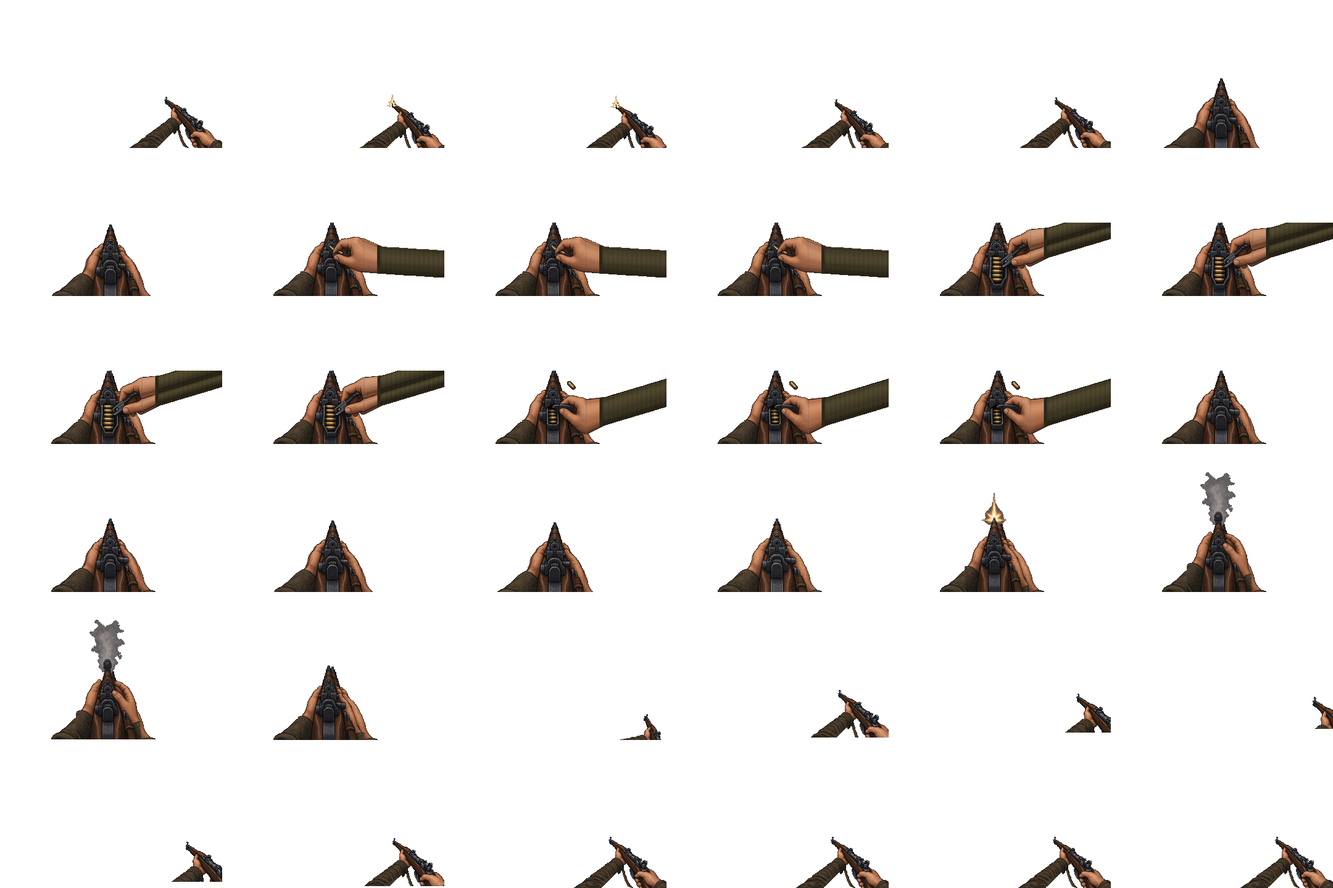
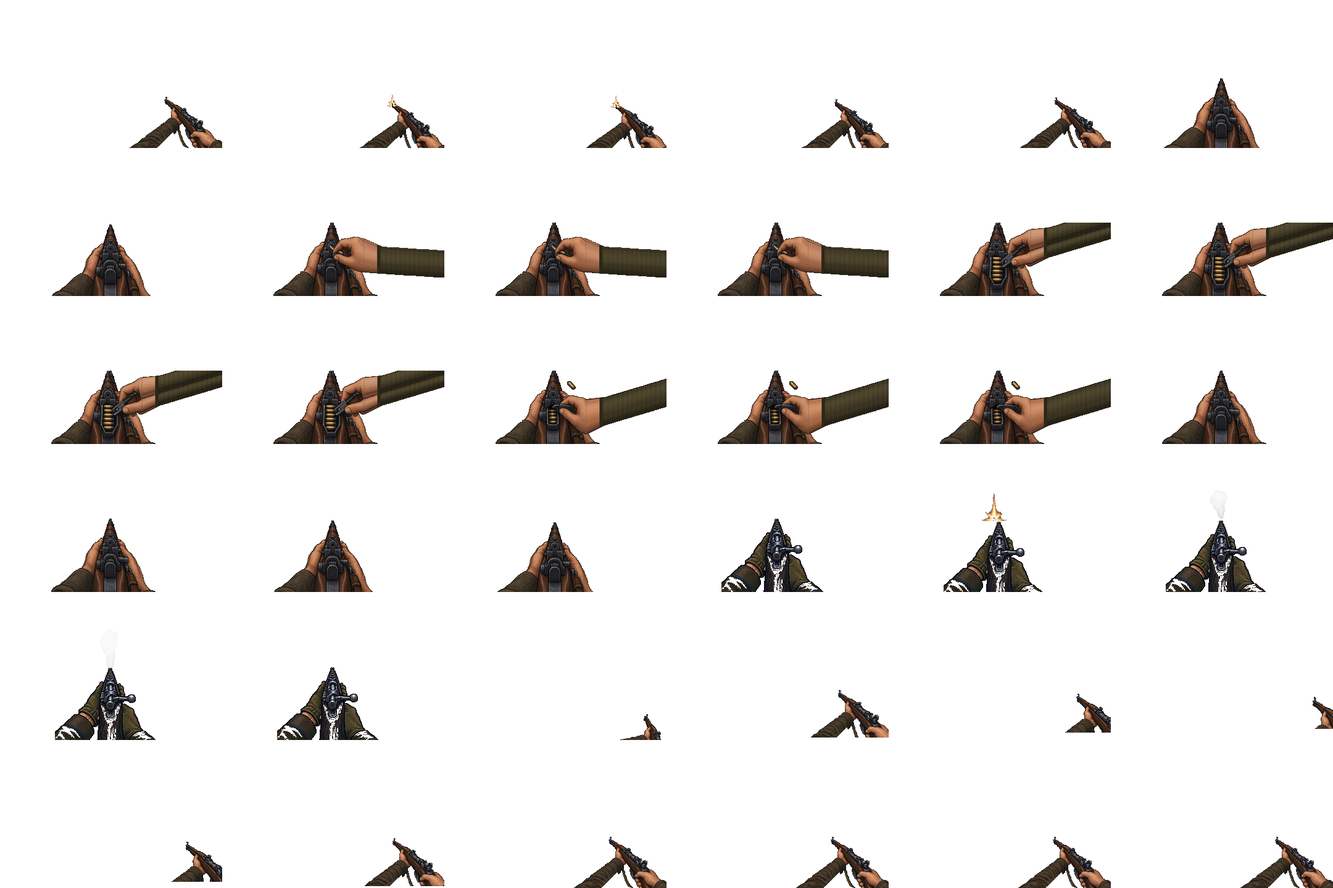
v0.45: Wake stage 3 - WW1 restyle of the island, new bolt aim view
- Fighting trenches carved at every flag (revetments, duckboards, spoil bank, ramped ends) plus the map's own trench pieces
- Solid structures from the map: huts, pillboxes, watch towers, dock store, wireless mast, gun rings, sandbag rings/walls, wrecks
- Shelled bridges (pilings, broken deck) beside the fords; beach obstacles become barbed-wire belts that slow movement
- Airstrip and sand roads laid on the ground; patchy scrub; working AA guns at the flak stands; lanterns and tower lamps
- Bolt-action aim frames rebuilt from the supplied art (gloved hands, handle right, procedural smoke)

Claude-Session: https://claude.ai/code/session_01RvCqKUzwLL4jv3Q2soH2oR

diff --git a/shared.js b/shared.js
@@ -349,6 +349,9 @@ function buildLights() {
     else if ((S.k === 'farm' || S.k === 'barn') && hv < .55) L(S.x + Math.cos(hv * 40) * 1.5, S.z + Math.sin(hv * 40) * 1.5, 'fire', 14, { h: 0 });
     else if (S.k === 'chapel' && hv < .6) L(S.x, S.z, 'lamp', 6, { h: .9 }); });   // candles left burning in the chapel ruins
   for (const b of BURN) L(b.x, b.z, 'burn', 6 + b.k * 4, { h: 0 });
+  gridLights();
+}
+function gridLights() {
   LGRID = new Map(); LIGHTS.forEach((l, i) => { for (let gx = Math.floor((l.x - l.r) / 16); gx <= Math.floor((l.x + l.r) / 16); gx++) for (let gz = Math.floor((l.z - l.r) / 16); gz <= Math.floor((l.z + l.r) / 16); gz++) { const k = gx * 1000 + gz; if (!LGRID.has(k)) LGRID.set(k, []); LGRID.get(k).push(l); } });
 }
 /** How well lit the ground is at (x, z) by the lamps and fires: 0 (dark) .. 1 (in the pool of light). */
@@ -450,7 +453,7 @@ function fortSeg(x0, y0, z0, x1, y1, z1) {   // segments up to one grid cell (6 
       for (const b of a) { const t = segBox(b, x0, y0, z0, x1, y1, z1); if (t >= 0 && (best < 0 || t < best)) best = t; } } }
   return best;
 }
-function wireK(x, z) { let k = wireK0(x, z); for (const w of FWIRE) if (inBox(w, x, z, 0)) { k = Math.min(k, .3); break; } return k; }
+function wireK(x, z) { let k = MP.kind === 'wake' ? 1 : wireK0(x, z); for (const w of WWIRE) if (inBox(w, x, z, 0)) { k = .4; break; } for (const w of FWIRE) if (inBox(w, x, z, 0)) { k = Math.min(k, .3); break; } return k; }
 function los(H, x1, y1, z1, x2, y2, z2) {
   const n = Math.max(10, Math.min(120, Math.ceil(Math.hypot(x2 - x1, z2 - z1) / 1.0)));
   let px = x1, py = y1, pz = z1;
@@ -680,6 +683,84 @@ function loadWake() {
   const g = root.T128_HM, meta = root.T128_WAKE; if (!g || !meta) return null;   // browser: public/maps/wake.js set these before shared.js ran
   const bin = atob(g.b64), n = (meta.N + 1) * (meta.N + 1), h = new Float32Array(n); for (let i = 0; i < n; i++) { let v = bin.charCodeAt(i * 2) | (bin.charCodeAt(i * 2 + 1) << 8); if (v & 32768) v -= 65536; h[i] = v / 100; } return { meta, h };
 }
+// ---- v0.45 Wake restyle: everything the imported map lists, rebuilt in the game's WW1 look. Trenches are carved into the
+// heightmap (a spoil bank thrown up on the outer side), buildings and gun pits are solid STRUCT boxes (walking, bullets, sight
+// and the bots' nav all respect them), beach obstacles become barbed-wire belts (WWIRE, slows like the trench maps' wire),
+// the AA stands become working AA guns, and lanterns go up at huts, bunkers, towers and flags. Same result on server and client.
+const WWIRE = [], WTR = [], TRM = new Map();   // TRM: heightmap vertex -> 1 trench, 2 spoil bank (for the ground colour)
+function carveTrench(pts, D) {   // pts: polyline [[x, z], ...]; D: depth. Flat floor 1.2 m wide, walls out to 1.1 m, a 0.35 m spoil bank behind
+  let L = 0; const seg = []; for (let i = 0; i + 1 < pts.length; i++) { const [ax, az] = pts[i], [bx, bz] = pts[i + 1], l = Math.hypot(bx - ax, bz - az); seg.push([ax, az, bx, bz, l, L]); L += l; }
+  let x0 = 1e9, x1 = -1e9, z0 = 1e9, z1 = -1e9; for (const [x, z] of pts) { x0 = Math.min(x0, x); x1 = Math.max(x1, x); z0 = Math.min(z0, z); z1 = Math.max(z1, z); }
+  const PR = HM.slice(0);
+  for (let j = Math.max(0, Math.floor((z0 - 4 + W) / ST)); j <= Math.min(N, Math.ceil((z1 + 4 + W) / ST)); j++) for (let i = Math.max(0, Math.floor((x0 - 4 + W) / ST)); i <= Math.min(N, Math.ceil((x1 + 4 + W) / ST)); i++) {
+    const x = -W + i * ST, z = -W + j * ST; let bd = 1e9, ba = 0;
+    for (const [ax, az, bx, bz, l, s0] of seg) { const t = Math.max(0, Math.min(1, ((x - ax) * (bx - ax) + (z - az) * (bz - az)) / (l * l || 1))), d = Math.hypot(x - ax - (bx - ax) * t, z - az - (bz - az) * t); if (d < bd) { bd = d; ba = s0 + t * l; } }
+    const k = j * (N + 1) + i, h0 = PR[k]; if (h0 < 1.3) continue;   // never dig down to the sea
+    const ramp = Math.min(1, ba / 3, (L - ba) / 3);   // the ends slope up so men (and bots) can walk out
+    if (bd < 1.1) { const w = bd < .6 ? 1 : 1 - (bd - .6) / .5; HM[k] = Math.min(HM[k], h0 - D * Math.max(0, ramp) * w); TRM.set(k, 1); }
+    else if (bd < 3.2 && ramp > .3) { HM[k] = Math.max(HM[k], h0 + .35 * Math.exp(-((bd - 2) * (bd - 2)) / .5) * ramp); if (bd < 2.8 && !TRM.has(k)) TRM.set(k, 2); }
+  }
+  WTR.push({ pts, D });
+}
+function buildWake(m) {
+  WWIRE.length = 0; WTR.length = 0; TRM.clear();
+  const H = (i, k) => hash(i * 1.37 + 11, k);
+  // trenches: three short arcs round each flag (inside the capture circle), plus the map's own trench pieces
+  m.flags.forEach((f, fi) => { const a0 = H(fi, 1) * 6.283; for (let k = 0; k < 3; k++) { const c = a0 + k * 2.094, r = 9 + H(fi, k + 2) * 1.5, pts = [];
+    for (let s = -5; s <= 5; s++) { const a = c + s * .11; pts.push([f.x + Math.cos(a) * r, f.z + Math.sin(a) * r]); }
+    if (pts.every(([x, z]) => hmSample(x, z) > 1.5)) carveTrench(pts, 1.15); } });
+  m.props.filter(p => p.k === 'trench').forEach(p => { const c = Math.cos(p.r || 0), s = Math.sin(p.r || 0); carveTrench([[p.x - s * 4.5, p.z - c * 4.5], [p.x + s * 4.5, p.z + c * 4.5]], 1.15); });
+  // structures
+  const gmin = (x, z, yaw, hx, hz) => { const c = Math.cos(yaw), s = Math.sin(yaw); let mn = 1e9; for (const [a, b] of [[-hx, -hz], [hx, -hz], [-hx, hz], [hx, hz], [0, 0]]) mn = Math.min(mn, hmSample(x + a * c + b * s, z - a * s + b * c)); return mn; };
+  const put = (k, x, z, yaw, fn, opt) => { const S = { k, x, z, yaw, parts: [] }, c = Math.cos(yaw), s = Math.sin(yaw), g0 = opt && opt.g != null ? opt.g : gmin(x, z, yaw, 3, 3) - .15;
+    const P = (lx, lz, hx, hz, h0, h1, mat, ry, nb, abs) => { const wx = x + lx * c + lz * s, wz = z - lx * s + lz * c, g = abs ? 0 : (opt && opt.flat ? g0 : gmin(wx, wz, yaw + (ry || 0), hx, hz) - .2); S.parts.push(addSBox(wx, wz, yaw + (ry || 0), hx, hz, g + h0, g + h1, mat, nb)); };
+    fn(P, S); STRUCT.push(S); return S; };
+  const ring = (P, R, n, h, mat, gapA, gapW, thick) => { for (let i = 0; i < n; i++) { const a = (i + .5) / n * 6.283; let d = Math.abs(((a - gapA) % 6.283 + 9.425) % 6.283 - 3.1416); if (d < gapW) continue;
+    P(Math.sin(a) * R, Math.cos(a) * R, Math.PI * R / n * 1.05, thick || .35, 0, h, mat, a); } };
+  const land = p => hmSample(p.x, p.z) > .4;
+  m.props.forEach((p, i) => { const y = p.r || 0, h = H(i, 9);
+    if (p.k === 'hut' && land(p)) put('hut', p.x, p.z, y, P => { const w = 5.2, d = 4.2, ruin = h < .3, wh = ruin ? 0 : 2.5;
+      const wall = (lx, lz, len, ry, door, win) => { const n = Math.round(len / 1.3), sl = len / n; for (let q = 0; q < n; q++) { const al = -len / 2 + sl * (q + .5), px = lx + (ry ? 0 : al), pz = lz + (ry ? al : 0), hx = ry ? .12 : sl / 2, hz = ry ? sl / 2 : .12;
+        if (door && q === Math.floor(n / 2)) { P(px, pz, hx, hz, 2.05, 2.5, 'plank', 0, true); continue; }
+        if (ruin) { if (H(i, q + lx * 3 + lz * 7) < .35) continue; P(px, pz, hx, hz, 0, .6 + 1.7 * H(i, q + 40 + lz), 'wood'); continue; }
+        if (win && (q === 1 || q === n - 2)) { P(px, pz, hx, hz, 0, .95, 'plank'); P(px, pz, hx, hz, 1.75, wh, 'plank'); continue; }
+        P(px, pz, hx, hz, 0, wh, 'plank'); } };
+      wall(0, -d / 2, w, 0, true, true); wall(0, d / 2, w, 0, false, true); wall(-w / 2, 0, d, 1, false, false); wall(w / 2, 0, d, 1, false, true);
+      if (!ruin) P(0, 0, w / 2 + .45, d / 2 + .45, wh, wh + .14, 'tin', 0, true); }, { flat: true });
+    else if (p.k === 'bunker' && land(p)) put('bunker', p.x, p.z, y, P => { const w = 5.4, hw = w / 2;   // a concrete pillbox: firing slit at the front (-z), door at the back
+      for (const sx of [-1, 1]) P(sx * (hw - .2), 0, .2, hw, 0, 2.1, 'concrete');
+      P(0, -(hw - .2), hw, .2, 0, 1.3, 'concrete'); P(0, -(hw - .2), hw, .2, 1.7, 2.1, 'concrete');
+      P(-1.6, hw - .2, 1.1, .2, 0, 2.1, 'concrete'); P(1.6, hw - .2, 1.1, .2, 0, 2.1, 'concrete'); P(0, hw - .2, .5, .2, 1.95, 2.1, 'concrete', 0, true);
+      P(0, 0, hw + .2, hw + .2, 2.1, 2.45, 'concrete', 0, true); }, { flat: true });
+    else if (p.k === 'tower' && land(p)) put('tower', p.x, p.z, y, P => { for (const sx of [-1, 1]) for (const sz of [-1, 1]) P(sx * 1.4, sz * 1.4, .12, .12, 0, 7.4, 'post');
+      P(0, 0, 1.7, 1.7, 5.5, 5.7, 'plank', 0, true); for (const sz of [-1, 1]) P(0, sz * 1.6, 1.7, .06, 5.7, 6.6, 'plank', 0, true); P(0, 0, 1.9, 1.9, 7.4, 7.55, 'tin', 0, true); }, { flat: true });
+    else if (p.k === 'gun' && land(p)) put('cring', p.x, p.z, y, P => ring(P, 4.2, 12, 1, 'concrete', 0, .6), { flat: true });   // the gun (an emplacement in EMPL) sits in a concrete ring, open at the back
+    else if (p.k === 'bagring' && land(p)) put('bagring', p.x, p.z, y, P => ring(P, 2.4, 9, 1, 'bag', 0, .5, .4), { flat: true });
+    else if (p.k === 'bags' && land(p)) put('bags', p.x, p.z, y, P => P(0, 0, 1.8, .4, 0, 1, 'bag'));
+    else if (p.k === 'tank' && land(p)) put('tank', p.x, p.z, y, P => { P(0, 0, 1.75, 3.9, 0, 2.1, 'metal'); P(0, -.3, 1.1, 1.3, 2.1, 2.7, 'metal', h - .5); });
+    else if ((p.k === 'plane' || p.k === 'planewreck') && land(p)) put('plane', p.x, p.z, y, P => { P(0, 0, .55, 3, 0, 1.1, 'wood'); P(0, -1, 4, .7, 0, .35, 'wood', 0, true); });
+    else if (p.k === 'wreck' && land(p)) put('lorry', p.x, p.z, y, P => { P(0, -1.9, 1.05, .85, 0, 2.3, 'metal'); P(0, 1, 1.05, 1.9, 0, 1.3, 'wood'); });
+    else if (p.k === 'radar' && land(p)) put('mast', p.x, p.z, y, P => { P(0, 0, .18, .18, 0, 16, 'post'); P(3.5, 0, 1.6, 1.3, 0, 2.3, 'plank'); P(3.5, 0, 1.9, 1.6, 2.3, 2.42, 'tin', 0, true); });
+    else if (p.k === 'pier' && land(p)) put('shed', p.x, p.z, y, P => { const w = 9, d = 6; for (const sz of [-1, 1]) for (let q = -3; q <= 3; q++) if (!(sz < 0 && Math.abs(q) < 1)) P(q * 1.29, sz * d / 2, .645, .12, 0, 3, 'plank');
+      for (const sx of [-1, 1]) P(sx * w / 2, 0, .12, d / 2, 0, 3, 'plank'); P(0, -d / 2, .645, .12, 2.3, 3, 'plank', 0, true); P(0, 0, w / 2 + .5, d / 2 + .5, 3, 3.15, 'tin', 0, true); }, { flat: true });   // the dock store
+    else if (p.k === 'bridge') { let by = y, bs = -1e9; for (let q = 0; q < 36; q++) { const a = q / 36 * Math.PI, c = Math.cos(a), sn = Math.sin(a); const v = Math.min(hmSample(p.x + sn * 30, p.z + c * 30), hmSample(p.x - sn * 30, p.z - c * 30)); if (v > bs) { bs = v; by = a; } }   // (the file's angle doesn't match the channel: span the shortest way between the two shores)
+      const hd = Math.min(hmSample(p.x + Math.sin(by) * 17, p.z + Math.cos(by) * 17), hmSample(p.x - Math.sin(by) * 17, p.z - Math.cos(by) * 17)) - .15;
+      put('bridge', p.x, p.z, by, P => { const L = 34; for (let q = -L / 2; q <= L / 2; q += 3.2) { if (H(i, q) < .2) continue; for (const sx of [-1, 1]) P(sx * 1.6, q, .13, .13, -3, H(i, q + 9) < .5 ? hd : hd * .35, 'post', 0, false, true);
+        if (Math.abs(q) > L / 2 - 7 || H(i, q + 20) < .25) P(0, q, 1.8, 1.6, hd, hd + .18, 'plank', (H(i, q + 3) - .5) * .4, true, true); } }); }   // shelled: the deck is gone in the middle; men use the ford beside it
+    if ((p.k === 'obstacle' || p.k === 'wire') && land(p)) { const yaw = p.k === 'wire' ? y : H(i, 3) * 6.283, len = p.k === 'wire' ? 9 : 4.5;
+      WWIRE.push({ cx: p.x, cz: p.z, c: Math.cos(yaw), s: Math.sin(yaw), hx: len / 2, hz: .9, yaw }); }
+  });
+  // AA guns (working: they shoot at enemy planes) where the map has its flak stands
+  AA.length = 0; m.props.filter(p => p.k === 'aa' && land(p)).forEach(p => AA.push({ team: p.team == null ? 1 : p.team, x: p.x, z: p.z }));
+  // lanterns: hut doors, bunker backs, tower tops, every flag
+  LIGHTS.length = 0; const Lt = (x, z, k, r, o) => LIGHTS.push(Object.assign({ x: +x.toFixed(2), z: +z.toFixed(2), k, r }, o || {}));
+  STRUCT.forEach((S, i) => { const c = Math.cos(S.yaw), s = Math.sin(S.yaw), at = (lx, lz) => [S.x + lx * c + lz * s, S.z - lx * s + lz * c];
+    if (S.k === 'hut' && H(i, 21) < .5) { const [x, z] = at(.9, -2.5); Lt(x, z, 'lantern', 8, { h: 2.2, hang: 1 }); }
+    else if (S.k === 'bunker') { const [x, z] = at(0, 3.2); Lt(x, z, 'lantern', 7, { h: 1.9, hang: 1 }); }
+    else if (S.k === 'tower') Lt(S.x, S.z, 'lamp', 12, { h: 6 }); });
+  for (const f of m.flags) Lt(f.x + .3, f.z, 'lantern', 12, { h: 2.6, hang: 1 });
+  gridLights();
+}
 function applyWake() {
   const d = loadWake(); if (!d) return false; const m = d.meta;
   setWorld(m.S, m.N); HM = d.h; MP.kind = 'wake'; MP.meta = m; MP.seed = WAKE_SEED; Object.assign(MP, { ph1: 0, ph2: 0, a1: 1, a2: 1, gx: 0, gz: 0, hs: 0 });
@@ -693,6 +774,7 @@ function applyWake() {
   fill(DEPOTS, []);
   ROOMS.length = 0; SB.length = 0; SBG.clear(); SGRID.clear(); SBOX.length = 0; PHONES.length = 0; TUNNELS.length = 0; AA.length = 0; STRUCT.length = 0; LIGHTS.length = 0; LGRID = new Map(); BAYS.clear();
   AIRF[0] = { x: -300, z: -300, yaw: 0 }; AIRF[1] = { x: 262, z: 258, yaw: -Math.PI / 2 };   // v0.43: the garrison's strip; the landing force has no airfield yet
+  buildWake(m);
   FLOOR = null; PRISTINE = null; return true;
 }
 /** Build the map for `seed` (0 = classic). Returns the seed actually used (a failing layout moves on to the next seed). */
@@ -789,7 +871,7 @@ function fixLoadout(xp, l) {
   return { cls, w, u };
 }
 
-const API = { setWorld, WAKE_SEED, isSea, SEA_WADE, hmSample: (x, z) => HM ? hmSample(x, z) : 0, crawl, CRAWL, RG, rgPath, chgMax, SLIDE, LIGHTS, BURN, litAt, LV_MAX, lvXp, levelOf, PHONES, phoneDist, TUNNELS, AA, AIRF, PL, flyStep, bombImpact, STRUCT, STRUCT_R, structOK, inBox, wetCell, wetAt, WET_SPD, FL, CT, GAPS, CZ0, CZ1, HOME_Z, NML, OBX, OBJ, MINES, trenchSlope, collapsed, NEST, HQS, LINES, SQUADS, ROOMS, TP, CP, FS_TOP, TR_FLOOR, trenchC, sgn, hash, tri, wireK, gen, base, makeTerrain, hAt, groundAt, roomAt, inRoof, inRoom, dig, los, step, WPN, CHG_MAX, GRAV, DEPOTS, DEP_R, VIS_R, CLS, UT, RK, REQ, rankOf, fixLoadout, climbTarget, climbAt, SB, sbHit, SB_H, FORT, fortParts, fortWorld, addFort, delFort, clearForts, fortHit, fortSeg, SBOX, FORTS, SL0, SL1, EMPL, ELITE, spOf, VEH, SHELL_G, mortarV, WXS, WX, smoothG, own, guarded, isFloor: k => !!(FLOOR && FLOOR[k]), FLOOR_GIVE, DIG_MAX, RIM_MAX, DIG_MAX, RIM_MAX, BAYS, bayOK, collapseBay, resetBays, applyEv, setMap, mapCheck, newSeed, MP, terrainFor, adoptTerrain, DEPOTS_NAMES: DEPOT_NAMES };
+const API = { WWIRE, WTR, TRM, carveTrench, setWorld, WAKE_SEED, isSea, SEA_WADE, hmSample: (x, z) => HM ? hmSample(x, z) : 0, crawl, CRAWL, RG, rgPath, chgMax, SLIDE, LIGHTS, BURN, litAt, LV_MAX, lvXp, levelOf, PHONES, phoneDist, TUNNELS, AA, AIRF, PL, flyStep, bombImpact, STRUCT, STRUCT_R, structOK, inBox, wetCell, wetAt, WET_SPD, FL, CT, GAPS, CZ0, CZ1, HOME_Z, NML, OBX, OBJ, MINES, trenchSlope, collapsed, NEST, HQS, LINES, SQUADS, ROOMS, TP, CP, FS_TOP, TR_FLOOR, trenchC, sgn, hash, tri, wireK, gen, base, makeTerrain, hAt, groundAt, roomAt, inRoof, inRoom, dig, los, step, WPN, CHG_MAX, GRAV, DEPOTS, DEP_R, VIS_R, CLS, UT, RK, REQ, rankOf, fixLoadout, climbTarget, climbAt, SB, sbHit, SB_H, FORT, fortParts, fortWorld, addFort, delFort, clearForts, fortHit, fortSeg, SBOX, FORTS, SL0, SL1, EMPL, ELITE, spOf, VEH, SHELL_G, mortarV, WXS, WX, smoothG, own, guarded, isFloor: k => !!(FLOOR && FLOOR[k]), FLOOR_GIVE, DIG_MAX, RIM_MAX, DIG_MAX, RIM_MAX, BAYS, bayOK, collapseBay, resetBays, applyEv, setMap, mapCheck, newSeed, MP, terrainFor, adoptTerrain, DEPOTS_NAMES: DEPOT_NAMES };
 for (const [k, g] of [['S', () => S], ['N', () => N], ['ST', () => ST], ['W', () => W], ['NV', () => NV]]) Object.defineProperty(API, k, { get: g, enumerable: true });   // world size can change with the map
 root.T128 = API;
 if (typeof module !== 'undefined' && module.exports) module.exports = API;

diff --git a/public/index.html b/public/index.html
@@ -218,7 +218,7 @@ let dirty=true,mmDirty=true;const LODS=[],BAYI=new Map(),bayReg=(key,m,i)=>{let 
 const nrm=new Float32Array(NV*3);tg.setAttribute('normal',new THREE.BufferAttribute(nrm,3));let dR=null;
 let wetOn=false;
 function terrRows(j0,j1){const H=terr.H,D=terr.D,R=N+1,k0=j0*R,k1=j1*R+N;
- for(let k=k0;k<=k1;k++){pos[k*3+1]=H[k];const m=D[k];if(WAKE){const h=H[k];if(h<0){const d=Math.min(1,-h/5);col[k*3]=(.30-.18*d)*m;col[k*3+1]=(.30-.12*d)*m;col[k*3+2]=(.22-.04*d)*m}else{const s=Math.min(1,h/2.2),v=Math.min(1,Math.max(0,(h-2.2)/6));col[k*3]=(.56-.22*s+.02*v)*m;col[k*3+1]=(.50-.16*s+.03*v)*m;col[k*3+2]=(.34-.18*s-.04*v)*m}}else{const t=Math.min(1,Math.max(0,(H[k]+2.5)/5));col[k*3]=(.26+.18*t)*m;col[k*3+1]=(.22+.17*t)*m;col[k*3+2]=(.13+.08*t)*m}   /* v0.43 island: wet sand under the water, pale coral sand on the beach, scrub inland */
+ for(let k=k0;k<=k1;k++){pos[k*3+1]=H[k];const m=D[k];if(WAKE){const h=H[k];if(h<0){const d=Math.min(1,-h/5);col[k*3]=(.30-.18*d)*m;col[k*3+1]=(.30-.12*d)*m;col[k*3+2]=(.22-.04*d)*m}else{const tr=T.TRM.get(k);if(tr===1){col[k*3]=.30*m;col[k*3+1]=.24*m;col[k*3+2]=.16*m}else if(tr===2){col[k*3]=.44*m;col[k*3+1]=.37*m;col[k*3+2]=.25*m}else{const s=Math.min(1,h/2.2),v=Math.min(1,Math.max(0,(h-2.2)/6)),i=k%(N+1),j=(k/(N+1))|0,pn=T.hash(i>>3,j>>3)*.6+T.hash(i>>2,(j>>2)+77)*.4,sc=s*(pn>.55?1:.55+pn*.6);col[k*3]=(.56-.22*sc+.02*v)*m;col[k*3+1]=(.50-.16*sc+.03*v)*m;col[k*3+2]=(.34-.18*sc-.04*v)*m}}}else{const t=Math.min(1,Math.max(0,(H[k]+2.5)/5));col[k*3]=(.26+.18*t)*m;col[k*3+1]=(.22+.17*t)*m;col[k*3+2]=(.13+.08*t)*m}   /* v0.43 island: wet sand under the water, pale coral sand on the beach, scrub inland */
   if(wetOn){const i=k%R,wc=T.wetCell(k,H,-W+i*ST,-W+((k/R)|0)*ST);if(wc>=2){col[k*3]=.10*m+.02;col[k*3+1]=.12*m+.02;col[k*3+2]=.13*m+.03}else if(wc===1){col[k*3]*=.68;col[k*3+1]*=.66;col[k*3+2]*=.62}}   /* v0.31: standing water and mud in the rain */
   const i=k%R,j=(k/R)|0,hx=H[k+(i<N?1:0)]-H[k-(i>0?1:0)],hz=H[k+(j<N?R:0)]-H[k-(j>0?R:0)],sx=(i>0&&i<N?2:1)*ST,sz=(j>0&&j<N?2:1)*ST,nx=-hx/sx,nz=-hz/sz,l=1/Math.hypot(nx,1,nz);nrm[k*3]=nx*l;nrm[k*3+1]=l;nrm[k*3+2]=nz*l}
  for(const r of T.ROOMS){const rj0=Math.max(j0,Math.floor((r.z0+W)/ST)),rj1=Math.min(j1,Math.ceil((r.z1+W)/ST));if(rj0>rj1)continue;const i0=Math.max(0,Math.floor((r.x0+W)/ST)),i1=Math.min(N,Math.ceil((r.x1+W)/ST));for(let j=rj0;j<=rj1;j++)for(let i=i0;i<=i1;i++){const k=j*R+i;if(H[k]<r.rb-.3){col[k*3]*=.5;col[k*3+1]*=.5;col[k*3+2]*=.5}}}
@@ -244,7 +244,11 @@ const STRN=[];function structNight(n){for(const q of STRN){if(q.G){q.G.attribute
   /* charred planks: vertical boards, black char where the fire took them */
   woodT=tx(32,32,(i,j)=>{const bd=i>>2,gap=(i&3)===3,n=(hz(i,j)-.5)*16,ch=hz(bd,j>>3)<.18;if(gap)return[34,28,24];return ch?[60+n,50+n,42+n]:[146+n+hz(bd,1)*24,118+n,86+n]}),
   brM=BM(0xffffff,brickT),stM=BM(0xffffff,stoneT),rustM=BM(0x7a5a44),darkM=BM(0x3a342c),charM=BM(0xffffff,woodT),hayM=BM(0xb39a58),
-  M={brick:brM,stone:stM,wood:charM,metal:rustM};
+  /* v0.45 island materials: fresh planks, corrugated iron, shuttered concrete, sandbags, weathered posts */
+  plankT=tx(32,32,(i,j)=>{const bd=j>>2,gap=(j&3)===3,n=(hz(i,j)-.5)*14,v=hz(bd,(i+bd*7)>>4);if(gap)return[70,58,44];return[150+n+v*28,124+n+v*18,88+n+v*8]}),
+  tinT=tx(32,32,(i,j)=>{const r=Math.sin(i*1.57)*16,n=(hz(i,j)-.5)*12,rust=hz(i>>3,j>>2)<.22;return rust?[120+n+r*.5,72+n,44+n]:[118+r+n,120+r+n,116+r+n]}),
+  concT=tx(32,32,(i,j)=>{const n=(hz(i,j)-.5)*20,form=(j&7)===7||((i+(j>>3)*13)&15)===15;return form?[118+n,116+n,108+n]:[164+n,160+n,148+n]}),
+  M={brick:brM,stone:stM,wood:charM,metal:rustM,plank:BM(0xffffff,plankT),tin:BM(0xffffff,tinT),concrete:BM(0xffffff,concT),bag:BM(0xffffff,TXP('tx_burlap',true)),post:BM(0x8a6a48)};
  const MG=new Map(),addG=(g,m,x,y,z,rx,ry,rz)=>{const o=new THREE.Object3D();o.position.set(x,y,z);o.rotation.order='YXZ';o.rotation.set(rx||0,ry||0,rz||0);o.updateMatrix();let q=g.index?g.toNonIndexed():g;q.applyMatrix4(o.matrix);if(!MG.has(m))MG.set(m,[]);MG.get(m).push(q)},
   boxT=(w,h,d,m,x,y,z,ry)=>{const g=new THREE.BoxGeometry(w,h,d),uv=g.attributes.uv;if(uv)for(let i=0;i<uv.count;i++)uv.setXY(i,uv.getX(i)*Math.max(w,d)/2,uv.getY(i)*h/2);addG(g,m,x,y,z,0,ry)},
   cyl=(r,h,m,x,y,z,rx,ry,rz)=>addG(new THREE.CylinderGeometry(r,r,h,10),m,x,y,z,rx,ry,rz);   /* every piece is merged into one mesh per material: a few draw calls for the lot */
@@ -258,6 +262,12 @@ const STRN=[];function structNight(n){for(const q of STRN){if(q.G){q.G.attribute
    B(10.5,.28,.28,charM,0,1.3,.4,0,.2);for(const lx of[-4.2,-1.4,1.4,4.2])B(.2,.2,5.2,charM,lx,1.25,hz(lx,S.x)<.5?-1.6:1.6,hz(lx,S.z)<.5?.48:-.48,0);
    B(4.6,.1,3.2,charM,2.2,.85,-1.1,.32,0);B(1.3,.75,1,hayM,-3.2,.38,1.6,0,0);B(1.1,.6,.9,hayM,-2,.3,2.2,0,.3);B(1.2,.5,1,hayM,-3.4,1,1.7,.1,0)}
   else if(S.k==='wagon'){const[x,z]=L(.9,1);cyl(.6,.1,charM,x,g0+.35,z,1.2,S.yaw,0)}}
+ /* v0.45 Wake: plank revetments and duckboards in the carved trenches, posts for the wire belts */
+ if(WAKE){const plk=M.plank,dk=BM(0xffffff,TXP('tx_timber',true));
+  for(const tr of T.WTR){const P=tr.pts;for(let i=0;i+1<P.length;i++){const [ax,az]=P[i],[bx,bz]=P[i+1],L=Math.hypot(bx-ax,bz-az),cx=(ax+bx)/2,cz=(az+bz)/2,yaw=Math.atan2(bx-ax,bz-az),fy=hAt(cx,cz),nx=Math.cos(yaw),nz=-Math.sin(yaw);
+    if(i>0&&i<P.length-2){for(const sd of[-1,1])boxT(.06,tr.D+.05,L+.05,plk,cx+nx*sd*.66,fy+tr.D/2,cz+nz*sd*.66,yaw)}
+    boxT(.7,.05,L,dk,cx,fy+.04,cz,yaw)}}
+  for(const w of T.WWIRE)for(let a=-w.hx;a<=w.hx+.01;a+=1.5)for(const sd of[-.6,.6]){const px=w.cx+w.c*a-w.s*sd,pz=w.cz-w.s*a-w.c*sd;boxT(.07,1.1,.07,M.post,px,hAt(px,pz)+.5,pz,w.yaw)}}
  for(const [m,L] of MG){let n=0;for(const g of L)n+=g.attributes.position.count;const P=new Float32Array(n*3),Nn=new Float32Array(n*3),U=new Float32Array(n*2);let o=0;
   for(const g of L){const c=g.attributes.position.count;P.set(g.attributes.position.array,o*3);if(g.attributes.normal)Nn.set(g.attributes.normal.array,o*3);if(g.attributes.uv)U.set(g.attributes.uv.array,o*2);o+=c;g.dispose&&g.dispose()}
   const Cc=new Float32Array(n*3);for(let i=0;i<n;i++){const nx=Nn[i*3],ny=Nn[i*3+1],nz=Nn[i*3+2],py=P[i*3+1],gy=hAt(P[i*3],P[i*3+2]),k=Math.max(.42,Math.min(1,.62+.3*ny+.16*nx-.08*nz))*Math.min(1,.72+.28*Math.min(1,Math.max(0,(py-gy)/2.2)));Cc[i*3]=k;Cc[i*3+1]=k*.98;Cc[i*3+2]=k*.94}
@@ -357,10 +367,17 @@ T.NEST.forEach(n=>{const g=hAt(n.x,n.z),dir=n.team===0?-1:1;for(let k=-3;k<=3;k+
 /* v0.43 Wake Atoll scenery from the owner's art: palms where the map has them (one in seven shattered), beach scrub at the map's
    bushes, and grass tufts scattered inland. Sprites are camera-facing quads in the static batches (ssAdd). */
 if(WAKE){const M=T.MP.meta,pm=n=>{const t=TXP(n);return new THREE.SpriteMaterial({map:t,alphaTest:.5})},palm=[pm('palm0'),pm('palm1')],PL=[];for(let i=0;i<21;i++)PL.push(pm('plant'+i));
- const BUSH=[3,4,8,13,15],TUFT=[0,1,2,5,6,9,10,11,12,14,16,17,18,19,20],land=(x,z)=>hAt(x,z)>.6,farFlag=(x,z)=>T.OBJ.every(o=>Math.hypot(o.x-x,o.z-z)>5);
+ const BUSH=[3,4,8,13,15],TUFT=[0,1,2,5,6,9,10,11,12,14,16,17,18,19,20],land=(x,z)=>hAt(x,z)>.6,farFlag=(x,z)=>T.OBJ.every(o=>Math.hypot(o.x-x,o.z-z)>5)&&!M.props.some(p=>p.k==='strip'&&Math.hypot(p.x-x,p.z-z)<15||p.k==='road'&&Math.hypot(p.x-x,p.z-z)<17)&&!T.TRM.has(Math.round((z+W)/ST)*(N+1)+Math.round((x+W)/ST));
  M.props.forEach((p,i)=>{if(!land(p.x,p.z))return;const h=T.hash(i,801);
   if(p.k==='palm'){if(h<.14){const hh=2.2+T.hash(i,802)*.6;ssAdd(palm[1],p.x,hAt(p.x,p.z),p.z,hh*1.97,hh,.04,1e9)}else{const hh=5.5+T.hash(i,803)*3;ssAdd(palm[0],p.x,hAt(p.x,p.z),p.z,hh*.71,hh,.03,1e9)}}
   else if(p.k==='bush'){const k=BUSH[Math.floor(h*BUSH.length)],hh=.9+T.hash(i,804)*.6,im=PL[k].map.image;ssAdd(PL[k],p.x,hAt(p.x,p.z),p.z,hh*1.3,hh,.04,220)}});
+ /* v0.45: wire coils on the beach-obstacle belts; the airstrip and sand roads as flat strips laid on the ground */
+ {const coil=pm('wirecoil');for(const w of T.WWIRE)for(let a=-w.hx+.6;a<w.hx;a+=1.1){const x=w.cx+w.c*a,z=w.cz-w.s*a;ssAdd(coil,x,hAt(x,z),z,1.5,.85,.04,200)}}
+ {const lay=(cx,cz,yaw,len,wid,col,tex,seed)=>{const nx=Math.max(2,Math.ceil(wid/2)),nz=Math.max(2,Math.ceil(len/2)),g=new THREE.PlaneGeometry(wid,len,nx,nz),p=g.attributes.position,c=Math.cos(yaw),sn=Math.sin(yaw),cols=[];
+   for(let i=0;i<p.count;i++){const lx=p.getX(i),lz=-p.getY(i),x=cx+lx*c+lz*sn,z=cz-lx*sn+lz*c;p.setXYZ(i,x,hAt(x,z)+.05,z);const v=.9+T.hash(i,seed)*.15;cols.push(col[0]*v,col[1]*v,col[2]*v)}
+   g.setAttribute('color',new THREE.Float32BufferAttribute(cols,3));if(tex){const uv=g.attributes.uv;for(let i=0;i<uv.count;i++)uv.setXY(i,uv.getX(i)*wid/6,uv.getY(i)*len/6)}g.computeVertexNormals();const m=new THREE.Mesh(g,new THREE.MeshBasicMaterial({vertexColors:true,map:tex||null,polygonOffset:true,polygonOffsetFactor:-2,side:THREE.DoubleSide}));scene.add(m)};
+  const stripT=(()=>{const c=document.createElement('canvas');c.width=32;c.height=32;const g=c.getContext('2d');for(let j=0;j<32;j++)for(let i=0;i<32;i++){const n=(T.hash(i,j+900)-.5)*22,rut=(j>8&&j<11)||(j>20&&j<23);g.fillStyle=`rgb(${(rut?150:186)+n|0},${(rut?138:172)+n|0},${(rut?110:136)+n|0})`;g.fillRect(i,j,1,1)}return pxTex(c,true)})();
+  M.props.forEach((p,i)=>{if(!land(p.x,p.z))return;if(p.k==='strip')lay(p.x,p.z,p.r||0,26,12.6,[1,1,1],stripT,i);else if(p.k==='road')lay(p.x,p.z,p.r||0,32.5,4.5,[.78,.70,.52],null,i)})}
  for(let n=0,put=0;n<6000&&put<900;n++){const x=(T.hash(n,810)-.5)*2*W,z=(T.hash(n,811)-.5)*2*W;if(!land(x,z)||hAt(x,z)<1.2||!farFlag(x,z))continue;const k=TUFT[Math.floor(T.hash(n,812)*TUFT.length)],hh=.45+T.hash(n,813)*.7;ssAdd(PL[k],x,hAt(x,z),z,hh*1.1,hh,.04,120);put++}}
 /* ------------------------------------------------------------------ trench walls, duckboards, dugouts (visual; the shapes are in the terrain and shared.js) */
 {

diff --git a/test/wake3.js b/test/wake3.js
@@ -1,0 +1,33 @@
+'use strict';
+// v0.45 Wake restyle: structures from the map are solid (walking and bullets), trenches are carved at every flag (and men can
+// climb or walk out of them), beach obstacles are wire that slows you, the AA stands are working AA guns, lanterns are lit.
+process.argv = ['node', 'x', '--port', '8084', '--fill', '12', '--no-fetch', '--maps', 'wake', '--data', require('fs').mkdtempSync(require('path').join(require('os').tmpdir(), 't128wk3-'))];
+process.env.T128_TEST = '1';
+const S = require('../server.js'), X = S._test, T = require('../shared.js');
+const sleep = ms => new Promise(r => setTimeout(r, ms)), R = {}, ck = (k, v) => { R[k] = !!v; };
+(async () => {
+  await sleep(1200); const H = X.terr().H, K = {}; for (const s of T.STRUCT) K[s.k] = (K[s.k] || 0) + 1; R.kinds = K;
+  ck('structures', K.hut >= 15 && K.bunker >= 3 && K.tower >= 3 && K.cring >= 4 && K.bagring >= 8 && K.bags >= 25 && K.bridge === 2);
+  // a hut wall stops a bullet and a man
+  const hut = T.STRUCT.find(s => s.k === 'hut' && s.parts.length > 12), w = hut.parts.find(b => !b.nb && b.y1 - b.y0 > 2), y = w.y0 + 1.3;
+  const nx = Math.cos(w.yaw), nz = -Math.sin(w.yaw);   // the wall's thin axis
+  ck('wallStopsBullet', T.fortSeg(w.cx - nz * 0 + nx * -3, y, w.cz + nz * -3, w.cx + nx * 3, y, w.cz + nz * 3) >= 0);
+  ck('wallStopsMan', !!T.fortHit(w.cx, w.y0 + .3, w.cz, .3, true));
+  // trenches at the flags: about 1.1 m deep with a spoil bank; a man climbs out, and can walk out of the ramped end
+  R.trenches = T.WTR.length; const tr = T.WTR[0], mid = tr.pts[5], end = tr.pts[0], fl = T.OBJ.find(o => Math.hypot(o.x - mid[0], o.z - mid[1]) < 14);
+  const floor = T.hAt(H, mid[0], mid[1]), rim = Math.max(...[-1.8, 1.8].map(d => { const a = tr.pts[4], b = tr.pts[6], dx = b[0] - a[0], dz = b[1] - a[1], L = Math.hypot(dx, dz); return T.hAt(H, mid[0] - dz / L * d, mid[1] + dx / L * d); }));
+  R.depth = +(rim - floor).toFixed(2); ck('trenchAtFlag', T.WTR.length >= 12 && fl && rim - floor > .9 && rim - floor < 1.8);
+  const man = { x: mid[0], y: floor, z: mid[1], vy: 0, cls: 'rifleman', hp: 100 }, out = Math.atan2(-(mid[0] - fl.x), -(mid[1] - fl.z));   // yaw that faces away from the flag
+  for (let i = 0; i < 60 * 4; i++) T.step(man, { dt: 1 / 60, f: 1, s: 0, bits: 1 | (i % 20 === 0 ? 16 : 0), yaw: out }, H, 1);
+  R.climb = [+floor.toFixed(2), +man.y.toFixed(2), +Math.hypot(man.x - mid[0], man.z - mid[1]).toFixed(1)]; ck('climbsOut', man.y > floor + .7 && Math.hypot(man.x - mid[0], man.z - mid[1]) > 1.5);
+  ck('rampedEnd', T.hAt(H, end[0], end[1]) > floor + .6);
+  ck('navCrossesTrenchEnds', X.navPassable(end[0], end[1]));
+  // wire
+  const wb = T.WWIRE[0]; ck('wireSlows', T.WWIRE.length >= 30 && T.wireK(wb.cx, wb.cz) < .5 && T.wireK(wb.cx + 20, wb.cz + 20) === 1);
+  // AA guns and lights
+  ck('aaGuns', T.AA.length === 5 && X.AAS.length === 5 && T.AA.every(a => a.team === 1));
+  ck('lanterns', T.LIGHTS.length >= 15 && T.litAt(T.OBJ[0].x + .3, T.OBJ[0].z) > .5);
+  // nobody spawns inside a building, and the start zones are still usable
+  const bad = [...X.ents.values()].filter(e => e.alive && T.fortHit(e.x, e.y, e.z, .3, true)).length; R.inside = bad; ck('noneInsideWalls', bad === 0);
+  console.log(JSON.stringify(R)); const fails = Object.keys(R).filter(k => R[k] === false); console.log(fails.length ? 'FAILED: ' + fails.join(', ') : 'ALL ' + Object.keys(R).filter(k => typeof R[k] === 'boolean').length + ' CHECKS PASSED'); process.exit(fails.length ? 1 : 0);
+})().catch(e => { console.log('TEST ERROR', e); process.exit(1); });

diff --git a/tools/runtests.js b/tools/runtests.js
@@ -10,7 +10,7 @@ const sleep = ms => new Promise(r => setTimeout(r, ms));
 
 // Server tests: each starts its own server in-process on its own port.
 const UNIT = ['snapdec', 'trench', 'climb', 'dugouts', 'destruct', 'net', 'round', 'limits', 'posts', 'forts', 'revive', 'officer', 'ops', 'gunplay',
-  'ai', 'command', 'rts', 'recon', 'comms', 'vehicles', 'bots27', 'live', 'tanktrench', 'v29', 'fuzz', 'launcherfiles', 'maps', 'wrecks', 'mud', 'phones', 'tunnels', 'planes', 'spawnmap', 'structs', 'movebank', 'flying', 'spacing', 'botjobs', 'lights', 'classes', 'v38', 'laststand', 'hitboxes', 'ranges', 'wake', 'wake2'];
+  'ai', 'command', 'rts', 'recon', 'comms', 'vehicles', 'bots27', 'live', 'tanktrench', 'v29', 'fuzz', 'launcherfiles', 'maps', 'wrecks', 'mud', 'phones', 'tunnels', 'planes', 'spawnmap', 'structs', 'movebank', 'flying', 'spacing', 'botjobs', 'lights', 'classes', 'v38', 'laststand', 'hitboxes', 'ranges', 'wake', 'wake2', 'wake3'];
 // Browser tests: run against a fresh T128_TEST server on :8099 with a seeded xp.json (ranks the tests need).
 const SEED = { offtester: 800, officerbrowser: 800, leaderbrowser: 150, settester: 900, camtester: 800, cmdbrowser: 800, reconbrowser: 150, rtsbrowser: 800, gunnerbrowser: 150 };
 const BROWSER = [['browser'], ['browser_ads'], ['browser_audio'], ['browser_climb'], ['browser_command'], ['browser_comms'], ['browser_forts'], ['browser_gunplay'],

diff --git a/build/fpv_bolt_ads.py b/build/fpv_bolt_ads.py
@@ -1,0 +1,64 @@
+"""v0.45: the bolt rifle's aim-down-sights frames (21 aim, 22-25 aim + fire) from the owner's picture build/ref/bolt_ads_new.jpg
+(gloved hands, bolt handle on the right). The hip, reload, sprint and melee frames of gun_bolt.png are kept. The muzzle flash and
+smoke of the old aim-fire frames are lifted (everything above the front sight that differs from the old aim frame) and laid over
+the new gun, which kicks down a few pixels on the shot and settles back."""
+import sys
+import numpy as np
+from PIL import Image, ImageFilter
+from collections import deque
+
+REF, SHEET = sys.argv[1], sys.argv[2]
+FW, FH, COLS = 360, 240, 6
+TIP = (178.5, 121)          # where the old frames put the front-sight tip
+
+src = np.array(Image.open(REF).convert('RGB')).astype(int)
+h, w, _ = src.shape
+bg = np.median(np.concatenate([src[:40].reshape(-1, 3), src[:, :40].reshape(-1, 3)]), axis=0)
+near = (np.abs(src - bg).sum(2) < 42)
+mask = np.zeros((h, w), bool); q = deque()
+for x in range(w):
+    for y in (0, h - 1):
+        if near[y, x]: mask[y, x] = True; q.append((y, x))
+for y in range(h):
+    for x in (0, w - 1):
+        if near[y, x] and not mask[y, x]: mask[y, x] = True; q.append((y, x))
+while q:
+    y, x = q.popleft()
+    for dy, dx in ((1, 0), (-1, 0), (0, 1), (0, -1)):
+        ny, nx = y + dy, x + dx
+        if 0 <= ny < h and 0 <= nx < w and near[ny, nx] and not mask[ny, nx]: mask[ny, nx] = True; q.append((ny, nx))
+rgba = np.dstack([src, np.where(mask, 0, 255)]).astype(np.uint8)
+im = Image.fromarray(rgba, 'RGBA')
+# the front-sight tip in the picture: topmost opaque pixel in the middle columns
+a = np.array(im)[:, :, 3]; mid = a[:, w // 2 - 40:w // 2 + 40]; ty = int(np.nonzero(mid.max(1) > 0)[0].min())
+xs = np.nonzero(a[ty + 4] > 0)[0]; tx = (xs.min() + xs.max()) / 2
+s = (FH - TIP[1]) / (h - ty)
+small = im.resize((round(w * s), round(h * s)), Image.LANCZOS)
+sa = np.array(small); sa[:, :, 3] = np.where(sa[:, :, 3] > 110, 255, 0); small = Image.fromarray(sa, 'RGBA').filter(ImageFilter.UnsharpMask(1, 60, 2))
+ox, oy = round(TIP[0] - tx * s), round(TIP[1] - ty * s)
+
+sheet = Image.open(SHEET).convert('RGBA')
+def frame(f): return sheet.crop(((f % COLS) * FW, (f // COLS) * FH, (f % COLS) * FW + FW, (f // COLS) * FH + FH))
+base = np.array(frame(21)).astype(int)
+for f, kick in ((21, 0), (22, 5), (23, 3), (24, 2), (25, 1)):
+    old = np.array(frame(f)).astype(int)
+    fx = np.zeros_like(old)
+    if f != 21:   # flash / smoke: what this frame adds over the old aim frame, above the sight
+        diff = (np.abs(old - base).sum(2) > 40) & (old[:, :, 3] > 0)
+        diff[int(TIP[1]) + 4:] = False
+        diff &= old[:, :, :3].mean(2) > 95   # flash and smoke are bright; leave the old gun's dark sight behind
+        fx[diff] = old[diff]
+    if f in (23, 24, 25):   # smoke from the muzzle: our own puff (the old one had the old gun's sight baked into it)
+        fx = np.zeros_like(old); rng = np.random.default_rng(7); lay = Image.new('RGBA', (FW, FH)); from PIL import ImageDraw; d = ImageDraw.Draw(lay)
+        age = {23: 0, 24: 1, 25: 2}[f]
+        for k in range(18):
+            t = k / 17; y = TIP[1] - 3 - t * (34 + 14 * age); x = TIP[0] + rng.normal(0, 1 + 4 * t) + 3 * age * t
+            r = 2.5 + 6 * t + 2 * age; a = int((150 - 60 * age) * (1 - .6 * t)); c = int(200 + 25 * rng.random())
+            if a > 0: d.ellipse([x - r, y - r, x + r, y + r], fill=(c, c, c - 6, a))
+        lay = lay.filter(ImageFilter.GaussianBlur(1.6)); la = np.array(lay); la[:, :, 3] = (la[:, :, 3] // 32) * 32   # stepped alpha: reads as pixel art
+        fx = la.astype(int)
+    out = Image.new('RGBA', (FW, FH)); out.alpha_composite(small, (ox, oy + kick))
+    out.alpha_composite(Image.fromarray(fx.astype(np.uint8), 'RGBA'))
+    sheet.paste(out, ((f % COLS) * FW, (f // COLS) * FH))
+sheet.save(SHEET)
+print('tip', tx, ty, 'scale', round(s, 4), 'offset', ox, oy)

diff --git a/README.md b/README.md
@@ -74,6 +74,17 @@ Server → client binary: **type 3 delta snapshot** every tick (36-byte own-stat
 
 # Changelog
 
+## v0.45 — Wake Atoll stage 3: the island rebuilt in WW1 style, new bolt-rifle aim view
+
+- **Fighting trenches at every flag.** Three short plank-revetted trenches with duckboards ring each flag inside the capture circle, about 1.2 m deep with a spoil bank thrown up behind. Climb out over the side or walk out of the sloped ends; the map's own trench pieces near Wilkes Landing are dug too.
+- **Buildings and works from the original map, all solid** (they stop men, bullets and sight; bots path round them): 20 plank huts with tin roofs, doors and windows (a third of them shelled to ruins), 4 concrete pillboxes with a front firing slit and a back door, 4 timber watch towers, a dock store, a wireless mast where the radar stood, concrete rings round the 5 coastal guns, 11 sandbag rings and 32 sandbag walls, and wrecked tanks, lorries and biplanes.
+- **Bridges:** the two wooden bridges are shelled: pilings and broken deck at the banks. The fords beside them are still how you cross.
+- **Beach obstacles are barbed-wire belts** (posts and coils) that slow you down like the wire on the trench maps.
+- **The airstrip and sand roads** are laid on the ground, and the scrub inland is patchy now.
+- **AA guns:** the garrison's five flak stands are working AA guns.
+- **Night:** lanterns at hut doors, pillbox doors, every flag, and lamps on the watch towers.
+- **Bolt-action aim view** redrawn from the supplied art: gloved hands, bolt handle on the right, a fresh smoke puff after the shot. The other bolt frames are unchanged.
+
 ## v0.44 — Wake Atoll stage 2: Domination HUD, flag respawns, smarter bots
 
 - **Domination HUD.** At the top of the screen: a race bar (your points grow from the left, the enemy's from the right; first to the middle at 100 wins) and five flag badges A–E in the holder's colour, with a ring showing how far each flag has been pushed and a pulse while it is changing hands. Standing in a flag shows what is happening there: CAPTURING C 29%, NEUTRALISING, LOSING, CONTESTED or HOLDING, and how many of each side are inside it.
